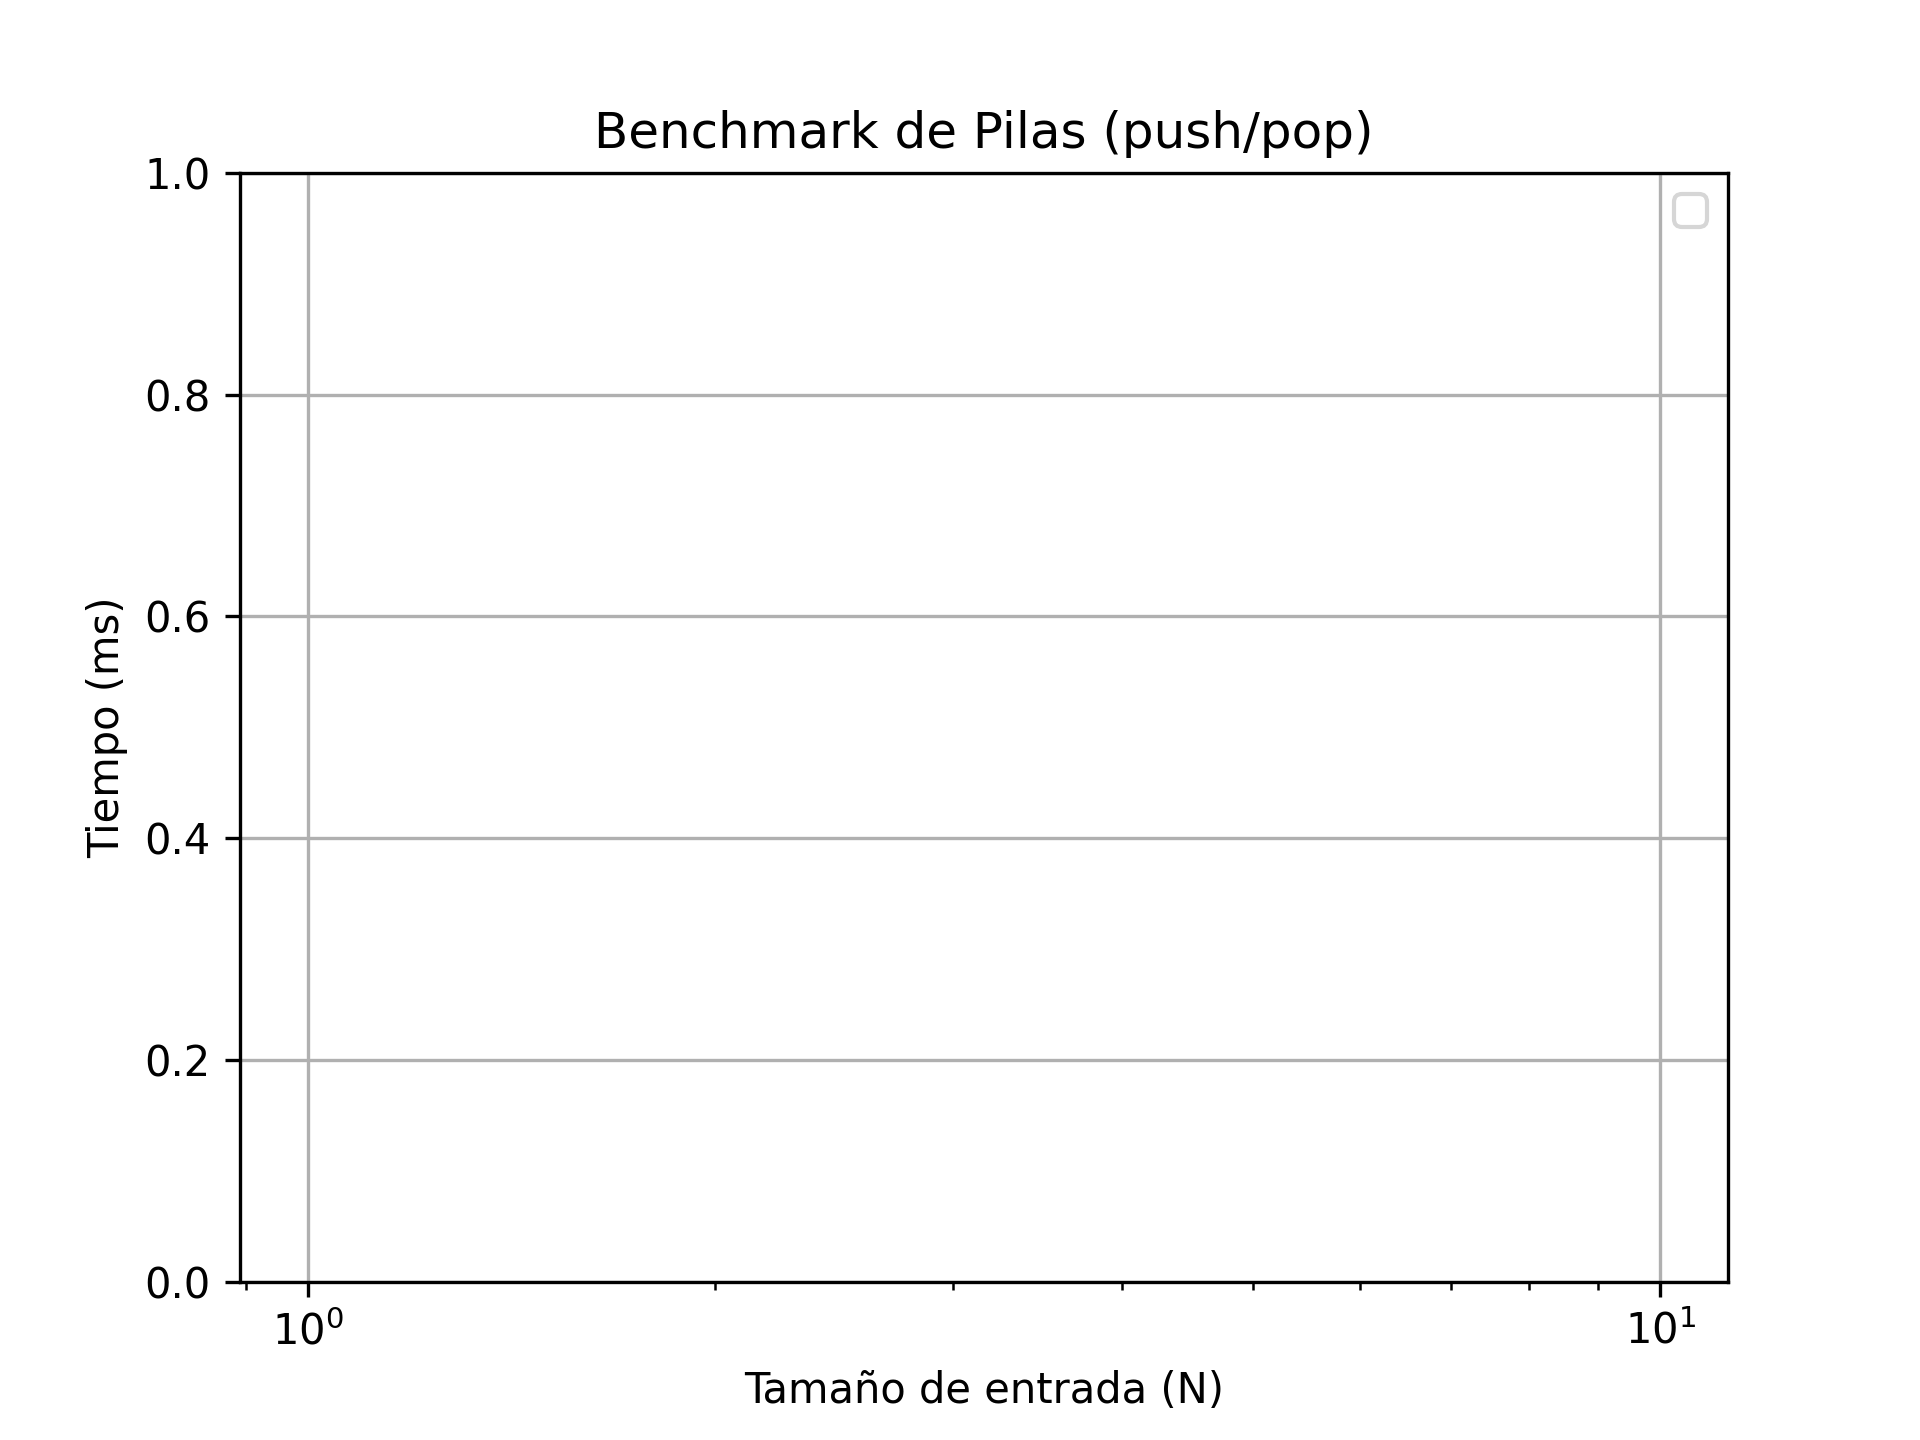
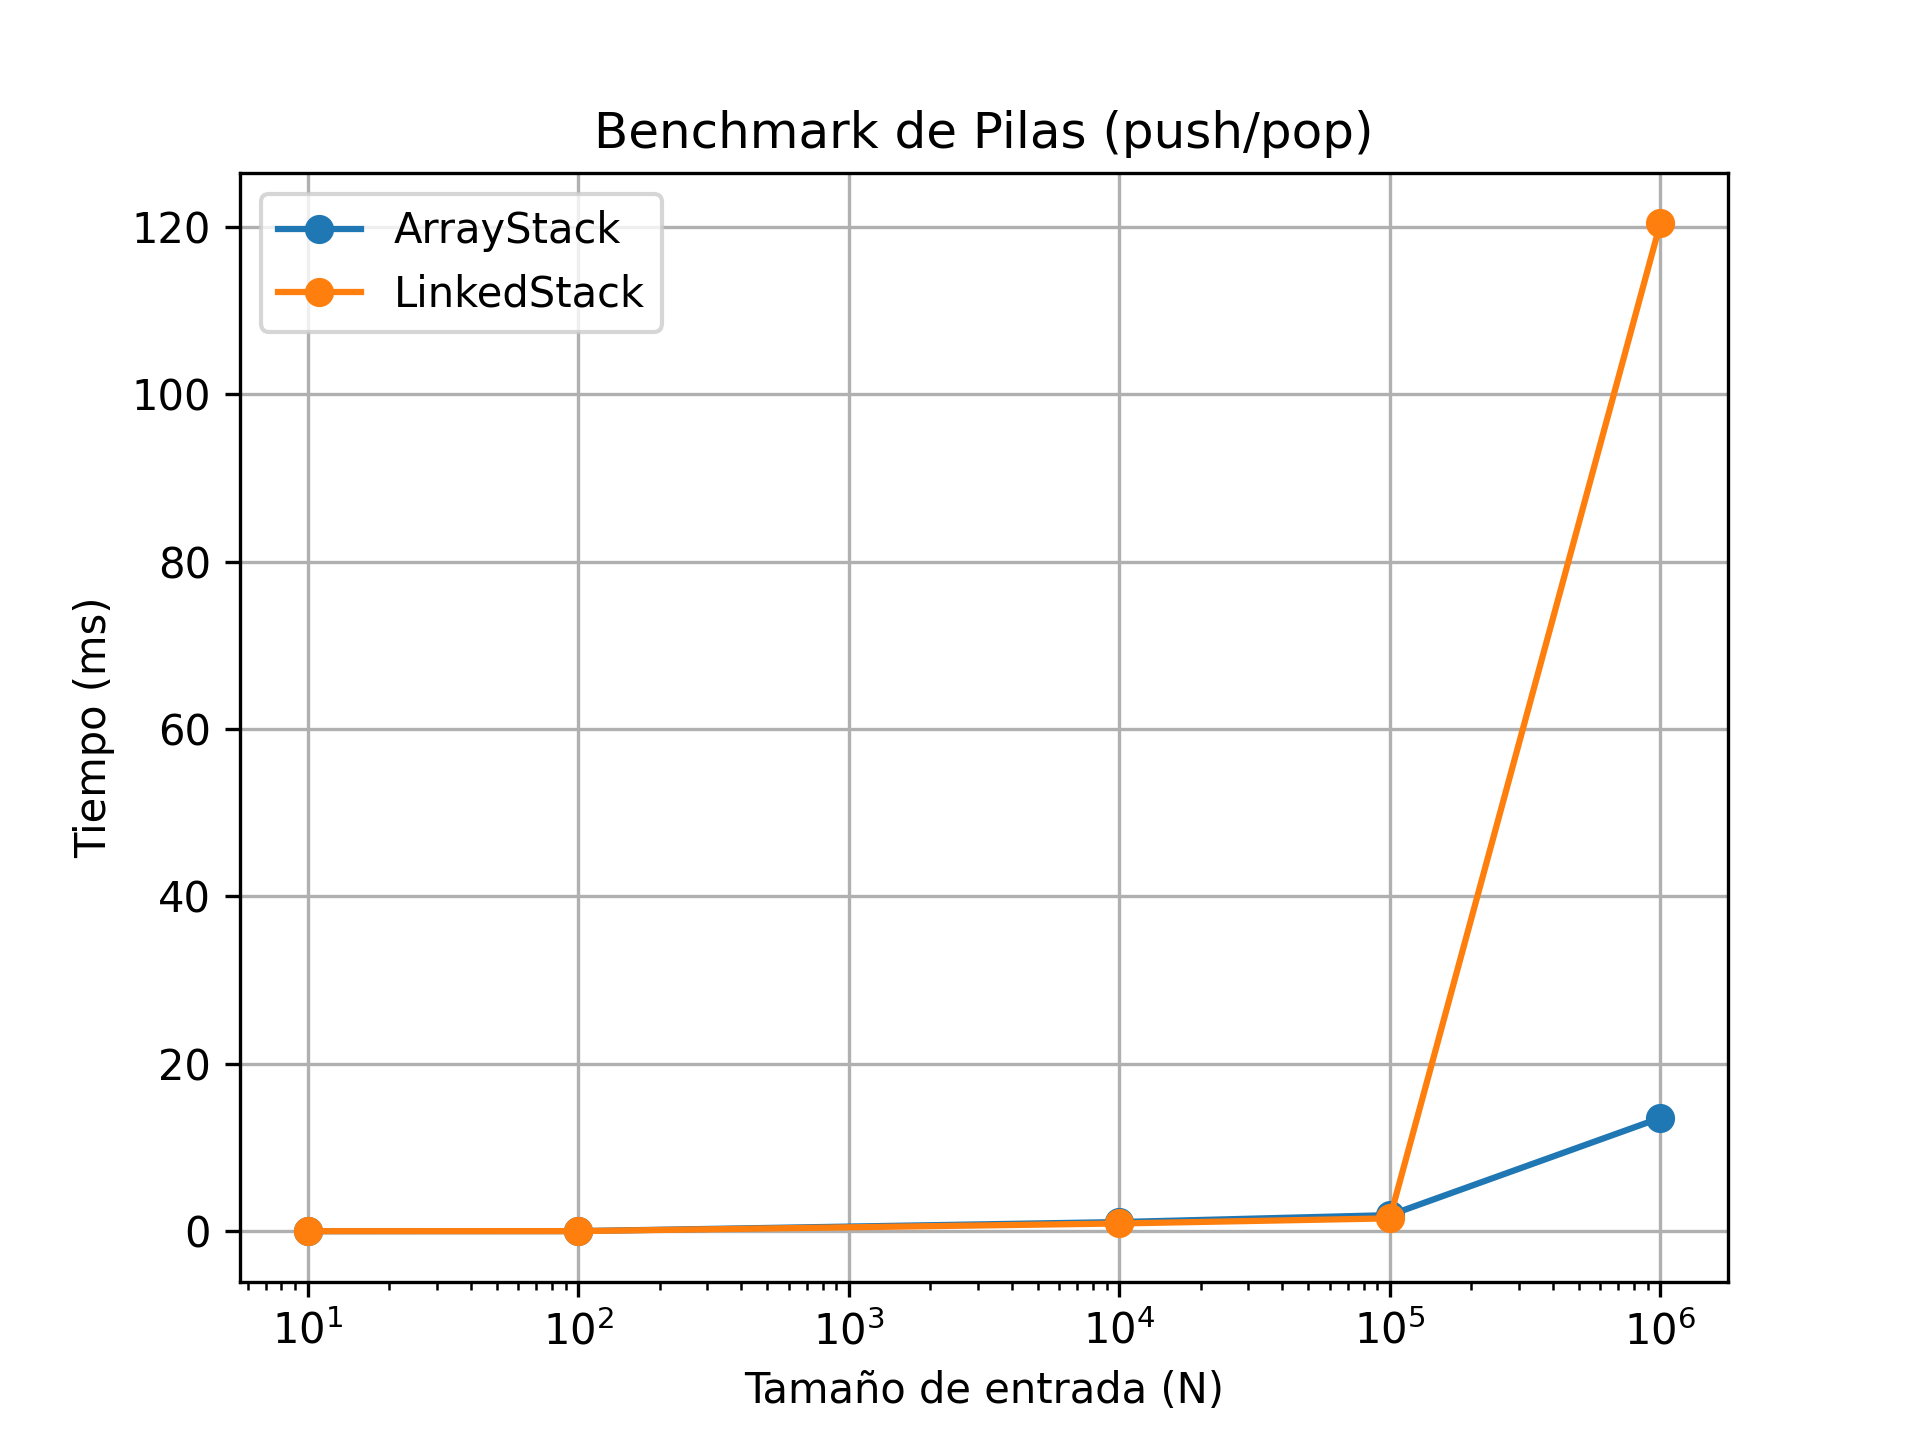
correccion graficas

diff --git a/graficas_benchmark.py b/graficas_benchmark.py
@@ -7,7 +7,8 @@ df = pd.read_csv("results.csv")
 # Convertir a milisegundos para que sea más legible
 df["time_ms"] = df["time_ns"] / 1e6
 
-# Graficar Pilas
+# === GRAFICAR Y GUARDAR PILAS ===
+plt.figure()
 stack_data = df[df["operation"] == "pushpop"]
 for struct in stack_data["structure"].unique():
     subset = stack_data[stack_data["structure"] == struct]
@@ -19,33 +20,11 @@ plt.ylabel("Tiempo (ms)")
 plt.legend()
 plt.grid(True)
 plt.xscale("log")  # Escala logarítmica para N
-plt.show()
-
-# Graficar Colas
-plt.figure()
-queue_data = df[df["operation"] == "enqueuedequeue"]
-for struct in queue_data["structure"].unique():
-    subset = queue_data[queue_data["structure"] == struct]
-    plt.plot(subset["N"], subset["time_ms"], marker="o", label=struct)
-
-plt.title("Benchmark de Colas (enqueue/dequeue)")
-plt.xlabel("Tamaño de entrada (N)")
-plt.ylabel("Tiempo (ms)")
-plt.legend()
-plt.grid(True)
-plt.xscale("log")
-plt.show()
-
-
-plt.title("Benchmark de Pilas (push/pop)")
-plt.xlabel("Tamaño de entrada (N)")
-plt.ylabel("Tiempo (ms)")
-plt.legend()
-plt.grid(True)
-plt.xscale("log")
 plt.savefig("stack_benchmark.png", dpi=300)
+plt.show()
 plt.close()
 
+# === GRAFICAR Y GUARDAR COLAS ===
 plt.figure()
 queue_data = df[df["operation"] == "enqueuedequeue"]
 for struct in queue_data["structure"].unique():
@@ -59,4 +38,5 @@ plt.legend()
 plt.grid(True)
 plt.xscale("log")
 plt.savefig("queue_benchmark.png", dpi=300)
+plt.show()
 plt.close()
